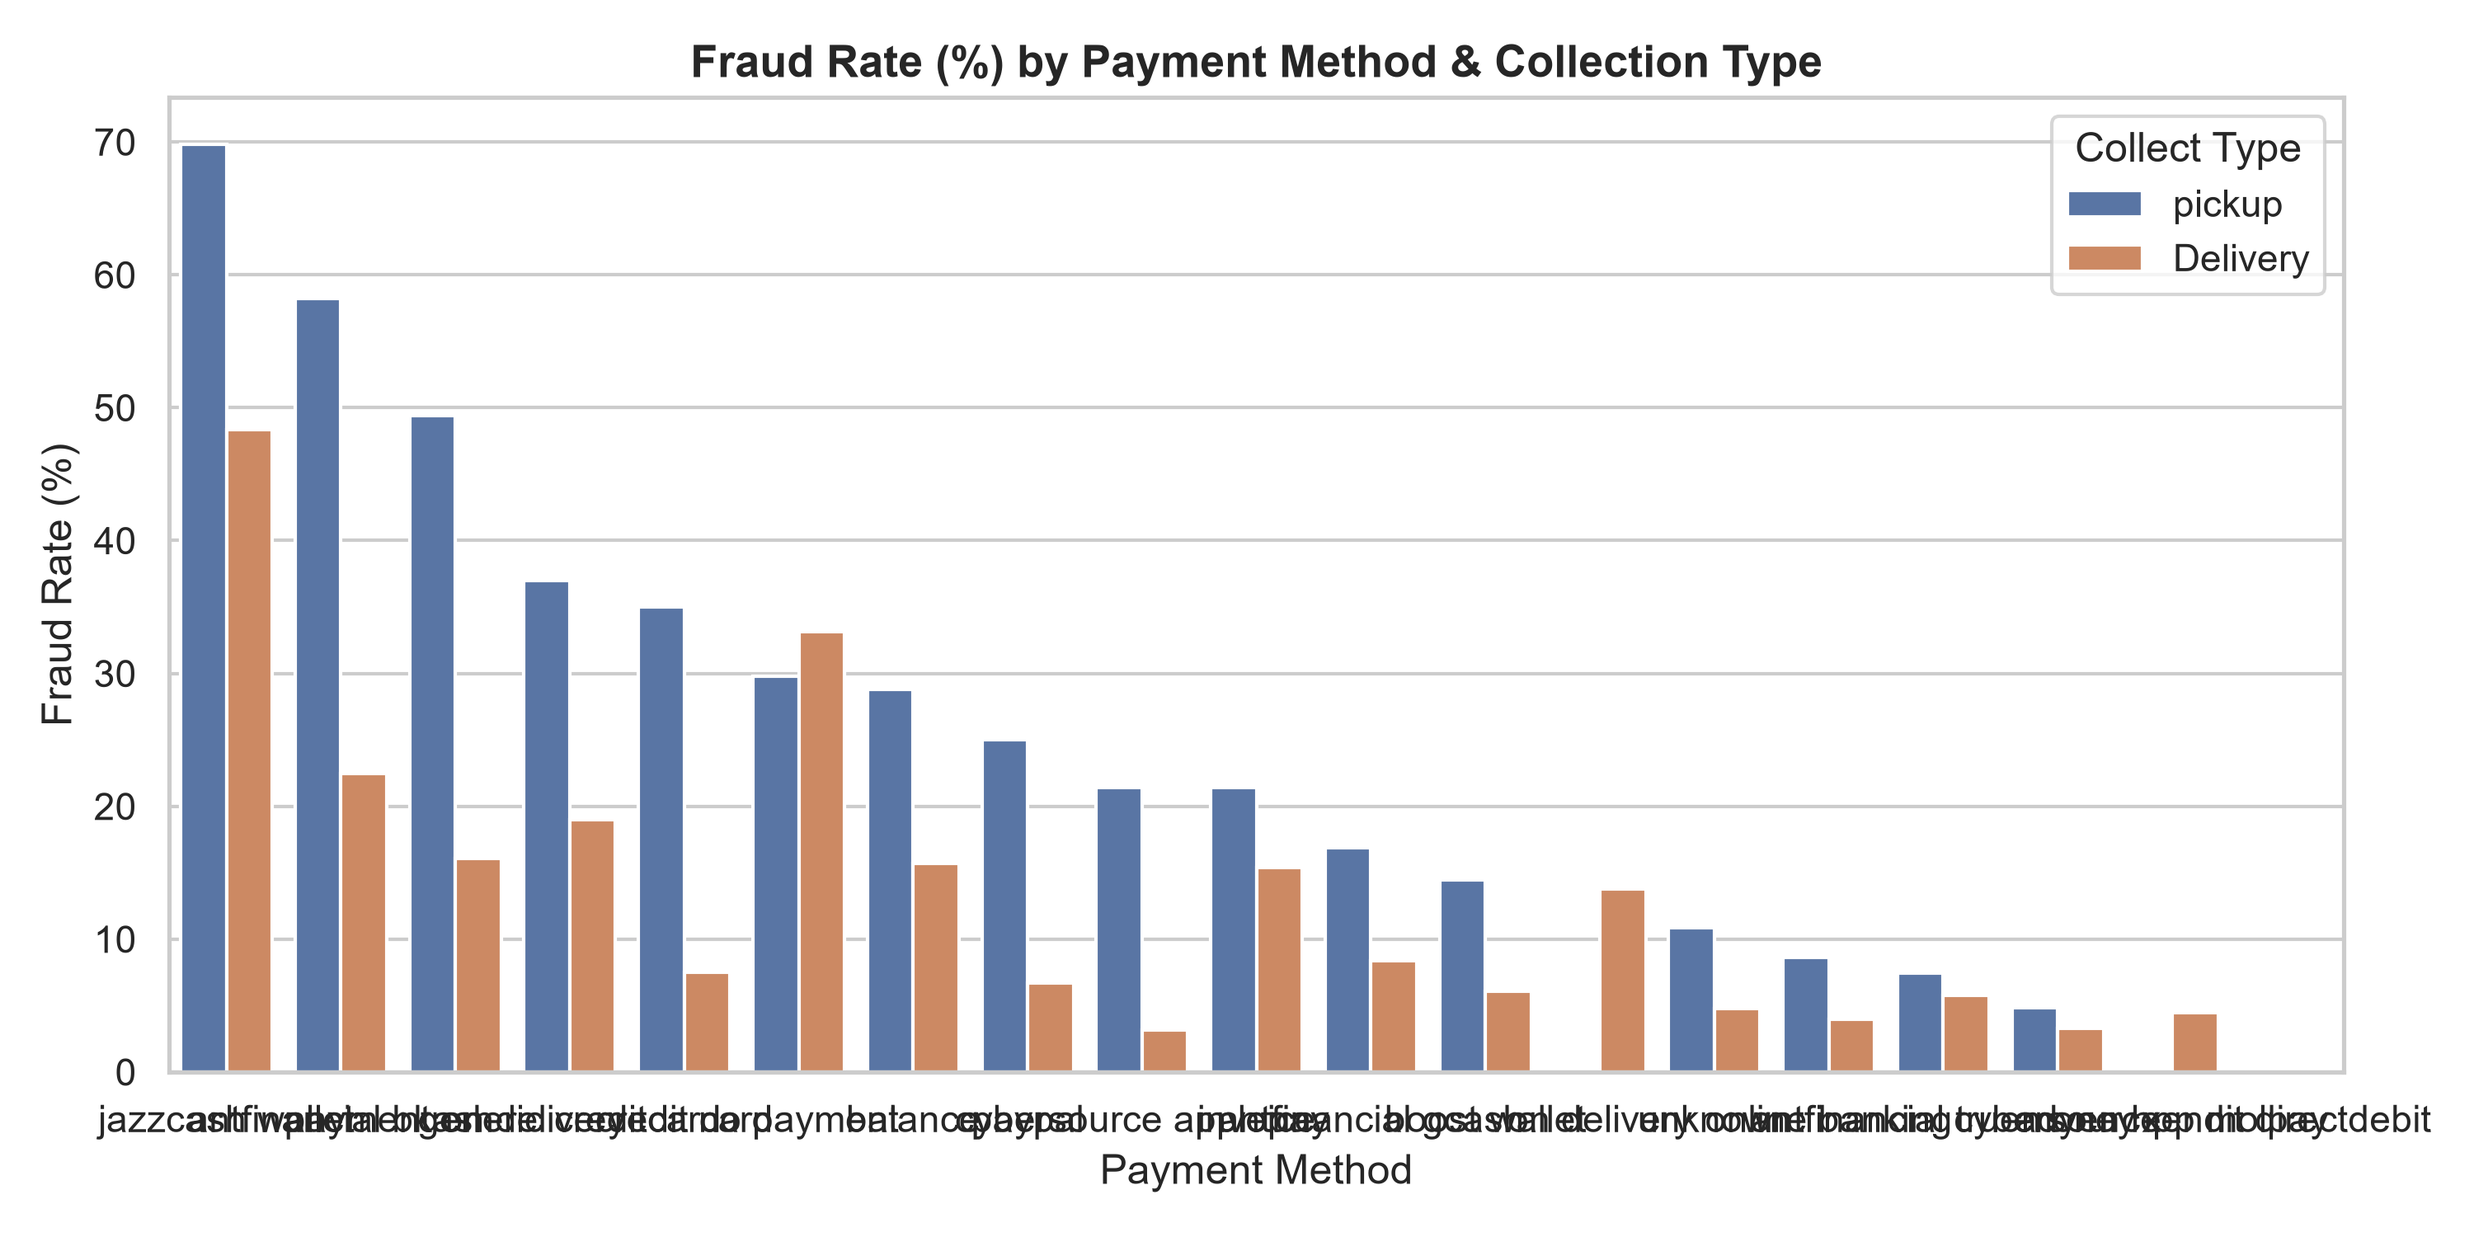
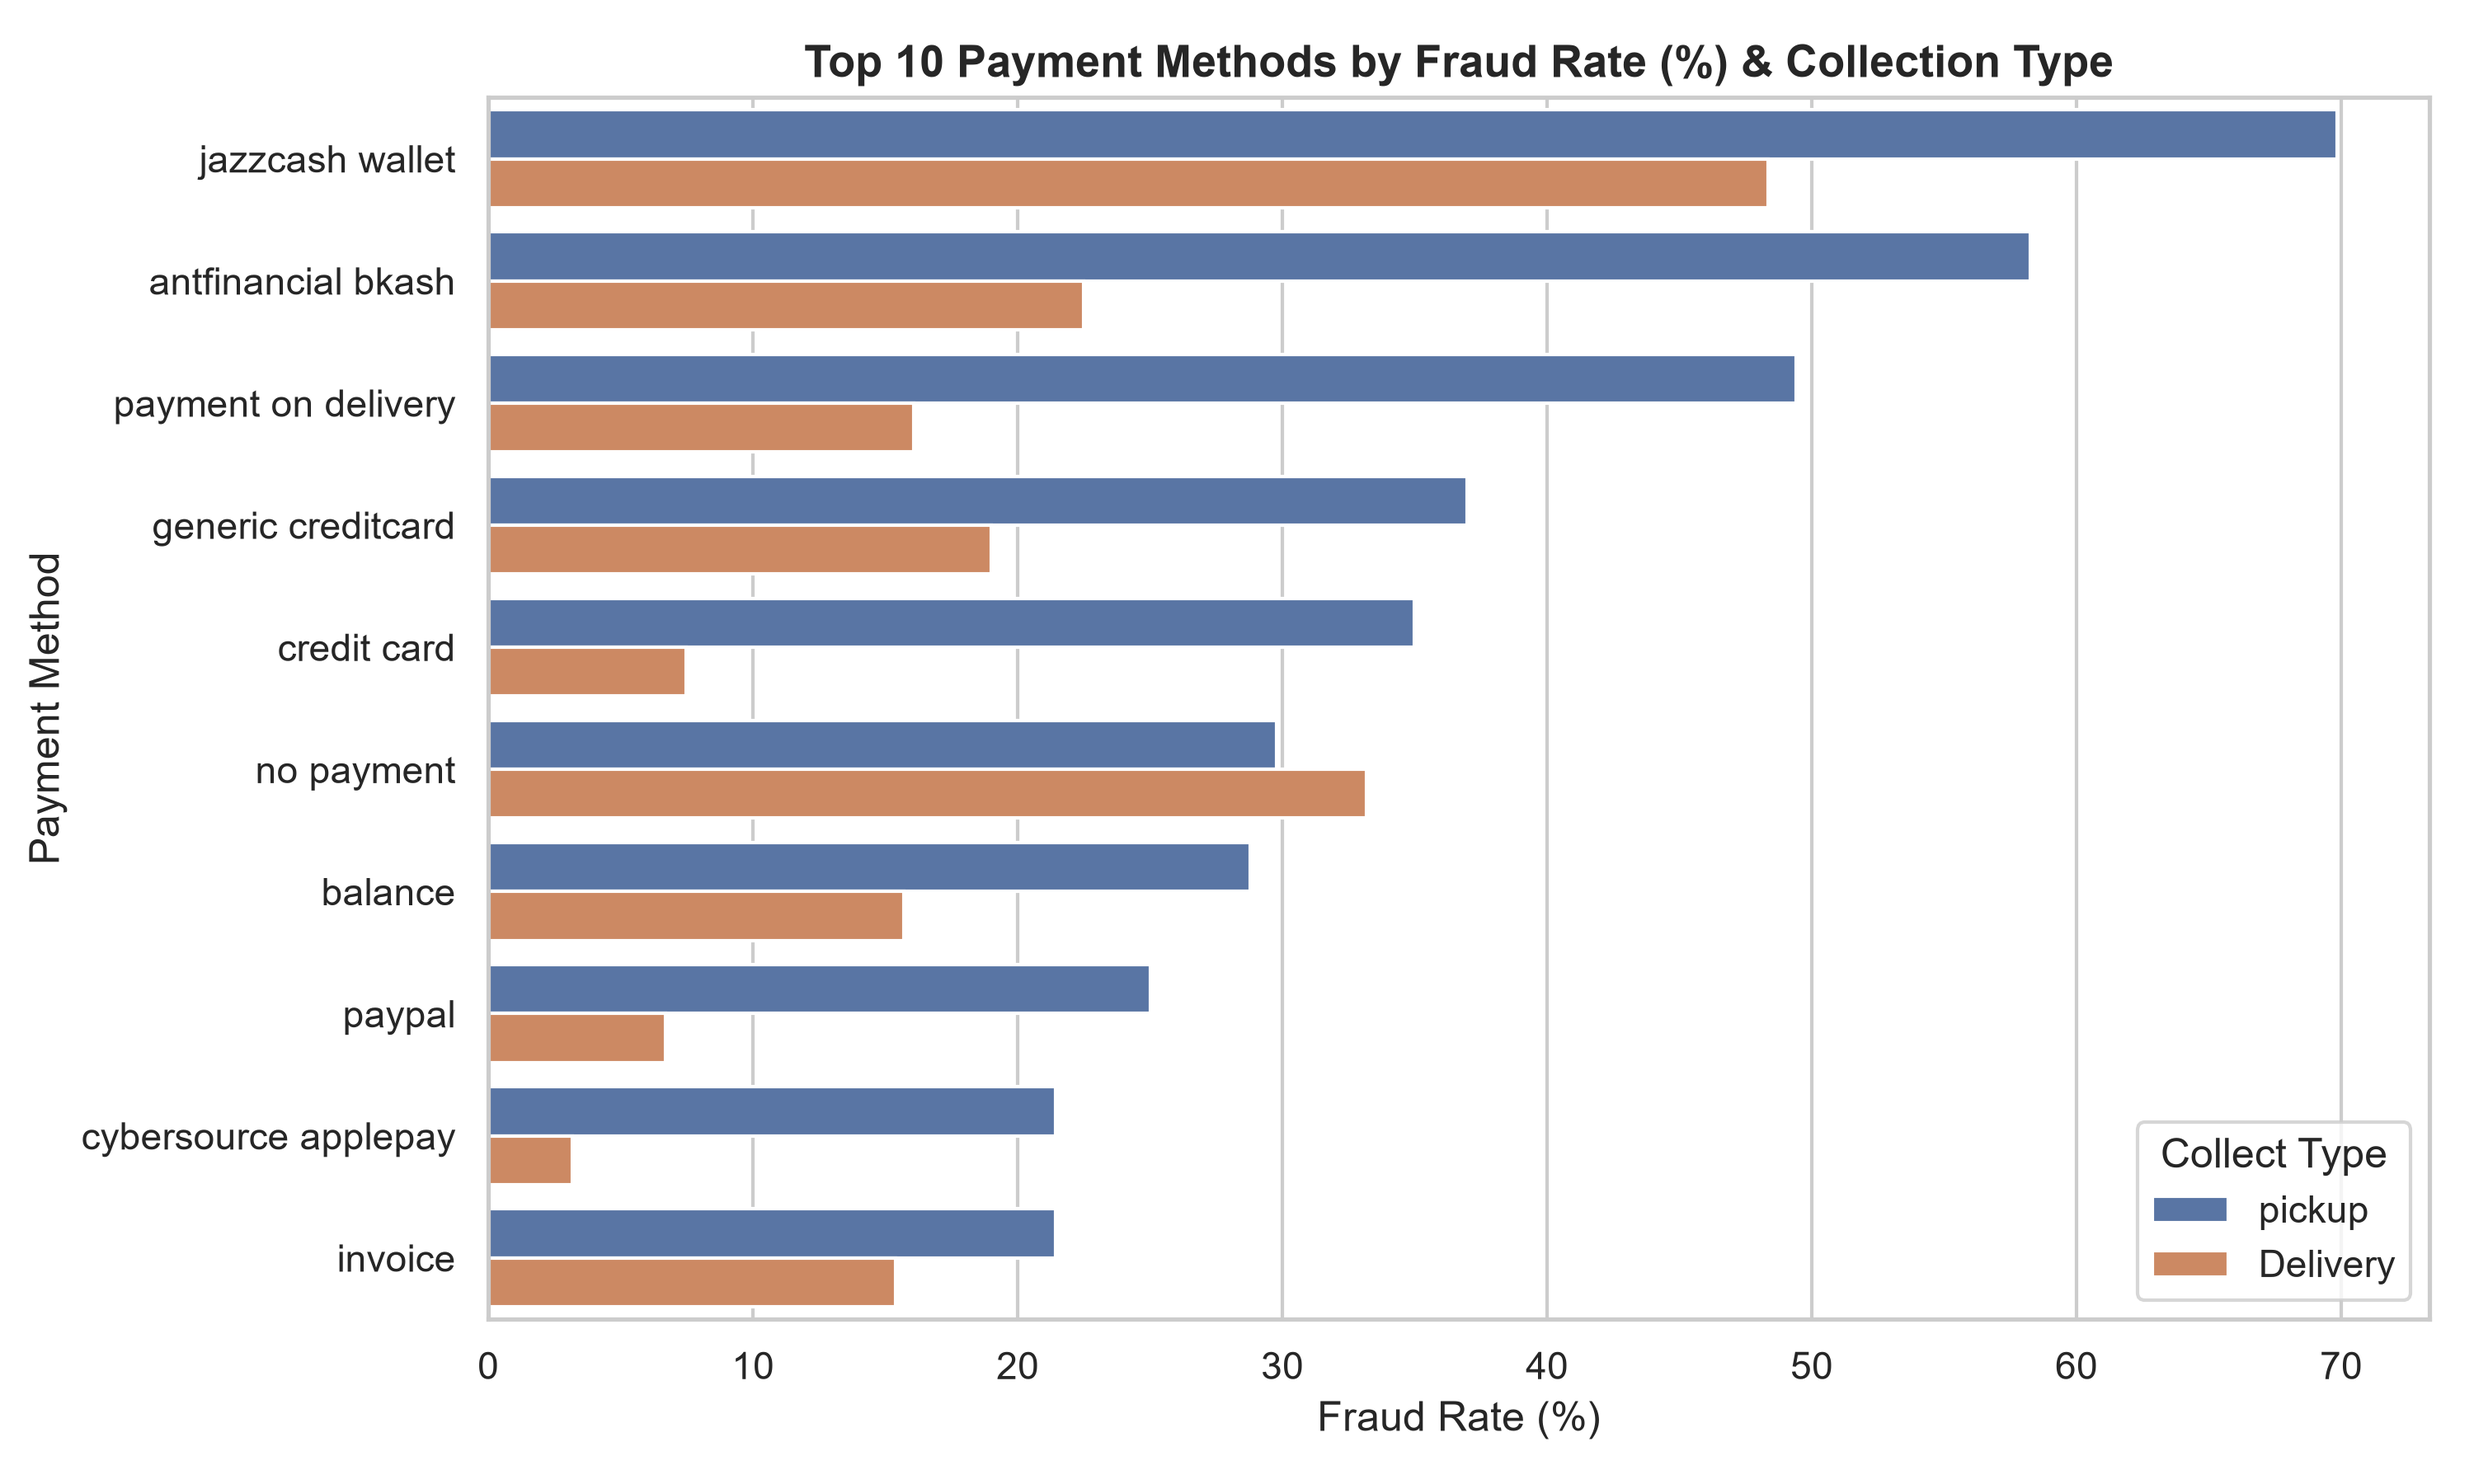
fix(analytics): horizontal bar chart for q1

diff --git a/analysis/fraud_analysis_shwesin/prefect_fraud_analytics_shwesin.py b/analysis/fraud_analysis_shwesin/prefect_fraud_analytics_shwesin.py
@@ -51,16 +51,18 @@ def task_payment_collect_fraud() -> pd.DataFrame:
 
     logger.info("\n=== Q1: Fraud Exposure by Payment Method & Collect Type ===\n" + df_q1.to_string(index=False))
 
-    plt.figure(figsize=(10, 5))
-    ax1 = sns.barplot(data=df_q1, x="payment_method", y="fraud_rate_pct", hue="collect_type")
-    ax1.set_title("Fraud Rate (%) by Payment Method & Collection Type", fontsize=13, fontweight="bold")
-    ax1.set_ylabel("Fraud Rate (%)")
-    ax1.set_xlabel("Payment Method")
+    top_methods = df_q1.groupby("payment_method")["fraud_rate_pct"].max().nlargest(10).index
+    df_q1_top = df_q1[df_q1["payment_method"].isin(top_methods)]
+
+    plt.figure(figsize=(10, 6))
+    ax1 = sns.barplot(data=df_q1_top, y="payment_method", x="fraud_rate_pct", hue="collect_type", order=top_methods)
+    ax1.set_title("Top 10 Payment Methods by Fraud Rate (%) & Collection Type", fontsize=13, fontweight="bold")
+    ax1.set_xlabel("Fraud Rate (%)")
+    ax1.set_ylabel("Payment Method")
     plt.legend(title="Collect Type")
     plt.tight_layout()
     plt.savefig(f"{OUTPUT_DIR}/q1_payment_collect_fraud.png", dpi=300)
     plt.close()
-    return df_q1
 
 
 @task(name="Query 2: High-Risk Customer Account Clusters", retries=2, retry_delay_seconds=5)

diff --git a/analysis/fraud_analysis_shwesin/fraud_analytics_shwesin.py b/analysis/fraud_analysis_shwesin/fraud_analytics_shwesin.py
@@ -47,11 +47,14 @@ df_q1 = run_query(q1_sql)
 print("\n=== Q1: Fraud Exposure by Payment Method & Collect Type ===")
 print(df_q1.to_string(index=False))
 
-plt.figure(figsize=(10, 5))
-ax1 = sns.barplot(data=df_q1, x="payment_method", y="fraud_rate_pct", hue="collect_type")
-ax1.set_title("Fraud Rate (%) by Payment Method & Collection Type", fontsize=13, fontweight="bold")
-ax1.set_ylabel("Fraud Rate (%)")
-ax1.set_xlabel("Payment Method")
+top_methods = df_q1.groupby("payment_method")["fraud_rate_pct"].max().nlargest(10).index
+df_q1_top = df_q1[df_q1["payment_method"].isin(top_methods)]
+
+plt.figure(figsize=(10, 6))
+ax1 = sns.barplot(data=df_q1_top, y="payment_method", x="fraud_rate_pct", hue="collect_type", order=top_methods)
+ax1.set_title("Top 10 Payment Methods by Fraud Rate (%) & Collection Type", fontsize=13, fontweight="bold")
+ax1.set_xlabel("Fraud Rate (%)")
+ax1.set_ylabel("Payment Method")
 plt.legend(title="Collect Type")
 plt.tight_layout()
 plt.savefig(f"{OUTPUT_DIR}/q1_payment_collect_fraud.png", dpi=300)
